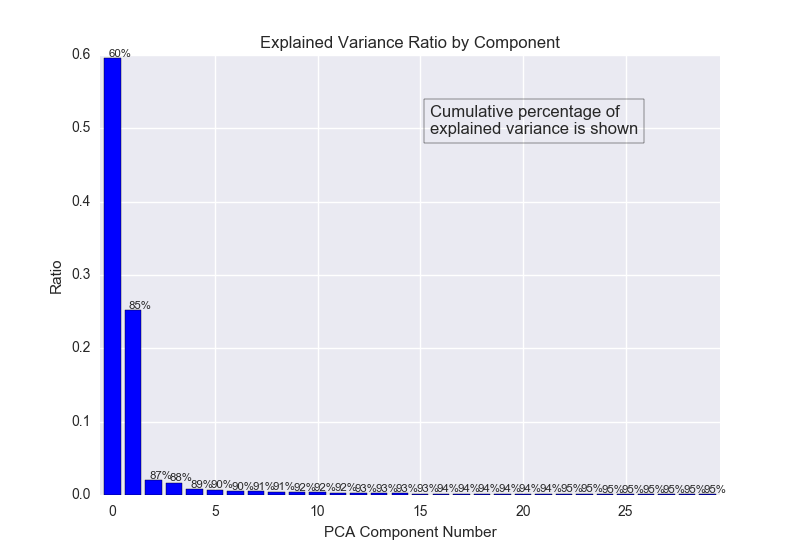
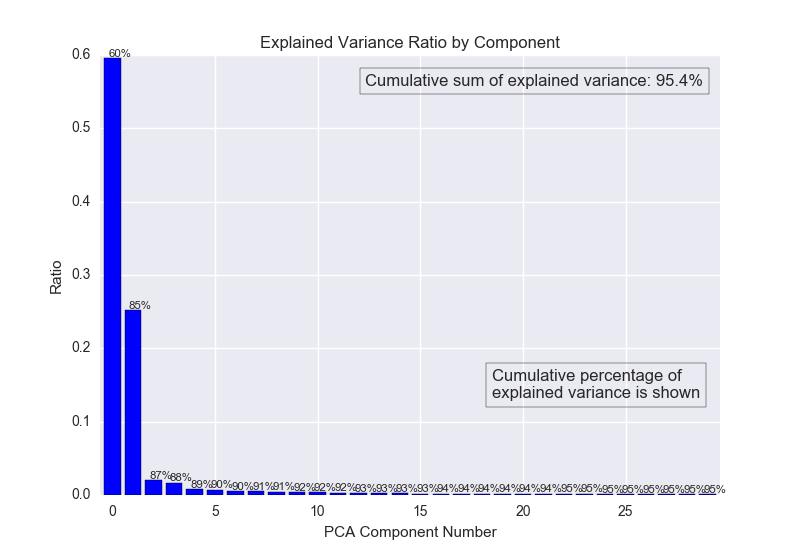
refactor pca, svm methods and plots

Changed region(s): [[0.4375, 0.1236, 0.9062, 0.2782], [0.5938, 0.6491, 0.9062, 0.7418]]

diff --git a/pca_svm.py b/pca_svm.py
@@ -17,21 +17,23 @@ from read_clean_data import readRawColumns, readRawData
 from clean_predict_allvar import renameColumns
 
 
-def getPlotDir():
-    sns.set_style("darkgrid")
+def get_plotdir():
     plotdir = "human_activity_pca_plots/"
+    return plotdir
+
+def make_plotdir():
+    sns.set_style("darkgrid")
+    plotdir = get_plotdir()
     if not os.access(plotdir, os.F_OK):
         os.mkdir(plotdir)
     return plotdir
 
-def plot_fit_transform(pca, X, comps, plotname, keys, check_fit=False):
+def plot_transform(pfit, X, comps, plotname, keys, check_fit=True):
     "do pca fit transform of original data, check components"
-    pfit = pca.fit_transform(X)   # class ndarray
     print('  pfit shape', pfit.shape)
     print(pfit[:3])
     
     if check_fit:
-        # check components
         print("  PCA comp norm?", np.allclose( \
             list(map(lambda e: sum(e*e), comps)), \
             np.ones(shape=(len(keys)))))
@@ -54,21 +56,28 @@ def plot_fit_transform(pca, X, comps, plotname, keys, check_fit=False):
     plotname += '_fit' + '.png'
     plt.savefig(plotname)
 
-def do_pca_fit(loansData, plotname, keys, rescale=True):
-    "do pca fit and fit transform"
-
-    mp = map( lambda k: np.matrix(loansData[k]).T, keys )
-    X = np.column_stack(mp)
-
-#    if (rescale):
-#        X = StandardScaler().fit_transform(X)
-
-    pca = PCA()
-    pout = pca.fit(X)
+def plot_pca_svm(preds):
+    print("preds", preds)
+    px = [e[0] for e in preds]
+    py = [e[1] for e in preds]
+    hscale = len(py)
+    pylabel = list(map(lambda y: "{:.3f}".format(y), py))
     
-    plot_fit_transform(pca, X, pout.components_, plotname, keys, check_fit=True)
+    plt.clf()
+    fig = plt.figure()
+    ax = fig.add_subplot(111)
+#    plt.bar(px, py, width=8, tick_label=px, color='blue', align='center')
+    plt.bar(range(len(py)), py, tick_label=px, color='blue', align='center')
+    for i, txt in enumerate(pylabel):
+        ax.annotate(txt, (i-0.2+0.2/hscale, py[i]+0.01), size='small')
+        
+    plt.ylim([0.5, 1.0])
+    plt.xlabel('Number of PCA Components')
+    plt.ylabel('SVM Predict Score')
+    plt.title('Human Activity by Smartphone Data, SVM with PCA')
     
-    return pca, pout
+    plotname = get_plotdir() + 'pca_svm.png'
+    plt.savefig(plotname)
 
 def plot_comps(pout, plotname, keys):
     "plot pca components in PCA-0, PCA-1 plane"
@@ -79,17 +88,17 @@ def plot_comps(pout, plotname, keys):
     plt.clf()
     compx = comps[0,:]
     compy = comps[1,:]
-    fig = plt.figure()
-    ax = fig.add_subplot(111)
+#    fig = plt.figure()
+#    ax = fig.add_subplot(111)
     plt.plot(compx, compy, 'o', color='blue', alpha=0.5)
     plt.plot([0.0], [0.0], '+', color='black', alpha=1.0)  # center position
-    for i, txt in enumerate(keys):
-        ax.annotate(txt, (compx[i], compy[i]), size='x-small')
-    plt.xlim([-1.2,1.2])
-    plt.ylim([-1.2,1.2])
+#    for i, txt in enumerate(keys):
+#        ax.annotate(txt, (compx[i], compy[i]), size='x-small')
+    plt.xlim([-0.02,0.02])
+    plt.ylim([-0.2,0.2])
     plt.xlabel('PCA-0')
     plt.ylabel('PCA-1')
-    plt.title('Human Activity Data by Smartphone, PCA Components')
+    plt.title('Human Activity by Smartphone Data, PCA Components')
     plotname += '_comps' + '.png'
     plt.savefig(plotname)
 
@@ -98,7 +107,7 @@ def plot_var_ratio(pout, plotname, numkeys):
 #    varratio = pout.explained_variance_ratio_    # ndarray
     varratio = pout.explained_variance_ratio_[:numkeys]
     varsum = reduce(lambda x,y: x+y, varratio)
-    print('  explained_variance_ratio:', varratio, ': sum =', varsum)
+    print('  explained_variance_ratio:', varratio[:3], '...', varratio[-3:], ': sum =', varsum)
     vartotal = (100 * pd.Series(varratio).cumsum()).values
     vartotal = list(filter(lambda x: x<96.0, vartotal))  # cutoff 96% for label
     vartotal = list(map(lambda x: "{:.0f}%".format(x), vartotal))  # python 3 preferred
@@ -109,8 +118,11 @@ def plot_var_ratio(pout, plotname, numkeys):
     ax = fig.add_subplot(111)
     hscale = len(varratio)
     plt.bar(range(hscale), varratio, color='blue', align='center')
+    plt.text(0.7, 0.94, 'Cumulative sum of explained variance: {:.1f}%'.format(varsum*100),
+        bbox=dict(edgecolor='black', fill=False), 
+        transform=ax.transAxes, horizontalalignment='center', verticalalignment='center')
     if numkeys < 40:       # otherwise text too crowded to see
-        plt.text(0.7, 0.85, 'Cumulative percentage of    \nexplained variance is shown',
+        plt.text(0.8, 0.25, 'Cumulative percentage of    \nexplained variance is shown',
             bbox=dict(edgecolor='black', fill=False), 
             transform=ax.transAxes, horizontalalignment='center', verticalalignment='center')
         for i, txt in enumerate(vartotal):
@@ -122,29 +134,36 @@ def plot_var_ratio(pout, plotname, numkeys):
     plotname += '_var' + '.png'
     plt.savefig(plotname)
 
-def do_pca(dftrain, filename, rescale=True):
-    "do pca analysis and plots for set of independent variables (keys)"    
-
-    keys = dftrain.columns
-    print('do_pca', filename, ': keylen', len(keys))
-    plotname = getPlotDir() + filename
-    pca, pout = do_pca_fit(dftrain, plotname, keys, rescale)
+def plot_comps_vars(pout, plotname, keys):
     plot_comps(pout, plotname, keys)
     plot_var_ratio(pout, plotname, len(keys))
     plot_var_ratio(pout, plotname+"_100", 100)
     plot_var_ratio(pout, plotname+"_030", 30)
     plot_var_ratio(pout, plotname+"_020", 20)
     plot_var_ratio(pout, plotname+"_010", 10)
-    
-    print('  done: %s' % filename)
-    return pca
 
-def simple_pca(dftrain, dftest, ncomps=30):
+def explore_pca(dftrain, dftest, filename):
+    "do pca analysis and plots for set of independent variables (keys)"    
+
+    keys = dftrain.columns
+    print('do_pca', filename, ': keylen', len(keys))
+    plotname = get_plotdir() + filename
+    
+    pca = PCA()
+    pout = pca.fit(dftrain)
+    X_train = pca.transform(dftrain)
+    X_test = pca.transform(dftest)
+    
+    plot_transform(X_train, dftrain, pout.components_, plotname, keys)
+    plot_comps_vars(pout, plotname, keys)
+    
+    return X_train, X_test
+
+def quick_pca(dftrain, dftest, ncomps=100):
     pca = PCA(n_components=ncomps)
     pca.fit(dftrain)
     X_train = pca.transform(dftrain)
     X_test = pca.transform(dftest)
-#    print("pca X_shapes", X_train.shape, X_test.shape)
     return X_train, X_test
 
 def do_svm(dftrain, dftrain_y, dftest, dftest_y, label=''):
@@ -152,12 +171,9 @@ def do_svm(dftrain, dftrain_y, dftest, dftest_y, label=''):
     print("fit shapes", dftrain.shape, dftrain_y.shape, dftest.shape, dftest_y.shape)
     clf.fit(dftrain, dftrain_y['Y'])
     fit_score = clf.score(dftrain, dftrain_y['Y'])
-    p_score = clf.score(dftest, dftest_y['Y'])
-#    print("fit score", fit_score)
-    pred_y = clf.predict( dftest )
-    pred_correct = sum(pred_y == dftest_y['Y'])
-    pred_score = pred_correct/dftest_y.shape[0]
-    print("%s: svm fit score %.5f, predict score %.5f %.5f" % (label, fit_score, pred_score, p_score))
+    pred_score = clf.score(dftest, dftest_y['Y'])
+    print("%s: svm fit score %.5f, predict score %.5f" % (label, fit_score, pred_score))
+    return pred_score
 
 
 def main():
@@ -166,27 +182,27 @@ def main():
     
     dftrain = renameColumns(dftrain)
     dftest = renameColumns(dftest)
-    print("dftrain shape head", dftrain.shape, "\n", dftrain[:5])
-    print("dftest shape head", dftest.shape, "\n", dftest[:5])
+    print("dftrain shape head", dftrain.shape, "\n", dftrain[:3])
+    print("dftest shape head", dftest.shape, "\n", dftest[:3])
     
-    pca = do_pca(dftrain, "all", rescale=False)
+    make_plotdir()
+    explore_pca(dftrain, dftest, "all")    # 562 columns
 
     do_svm(dftrain, dftrain_y, dftest, dftest_y, 'raw data, all cols')
     do_svm(dftrain.ix[:, :30], dftrain_y, dftest.ix[:, :30], dftest_y, 'raw data, 30 cols')
     
-#    X_train, X_test = simple_pca(dftrain, dftest, ncomps=30)
-#    do_svm(X_train, dftrain_y, X_test, dftest_y)
-#    X_train, X_test = simple_pca(dftrain, dftest, ncomps=50)
-#    do_svm(X_train, dftrain_y, X_test, dftest_y)
-#    X_train, X_test = simple_pca(dftrain, dftest, ncomps=100)
-#    do_svm(X_train, dftrain_y, X_test, dftest_y)
+    X_train, X_test = quick_pca(dftrain, dftest, ncomps=100)
     
-    X_train, X_test = simple_pca(dftrain, dftest, ncomps=562)
-    do_svm(X_train[:, :30], dftrain_y, X_test[:, :30], dftest_y, 'pca 30 cols')
-    do_svm(X_train[:, :50], dftrain_y, X_test[:, :50], dftest_y, 'pca 50 cols')
-    do_svm(X_train[:, :100], dftrain_y, X_test[:, :100], dftest_y, 'pca 100 cols')
+    preds = []
+    for j in [10, 20, 30, 50, 100]:
+        p = do_svm(X_train[:, :j], dftrain_y, X_test[:, :j], dftest_y, 'pca {:.0f} cols'.format(j))
+        preds.append((j, p))
+   
+    plot_pca_svm(preds)
 
 
 if __name__ == '__main__':
     main()
+
+# to do:  cross-validation, confusion matrix
 
